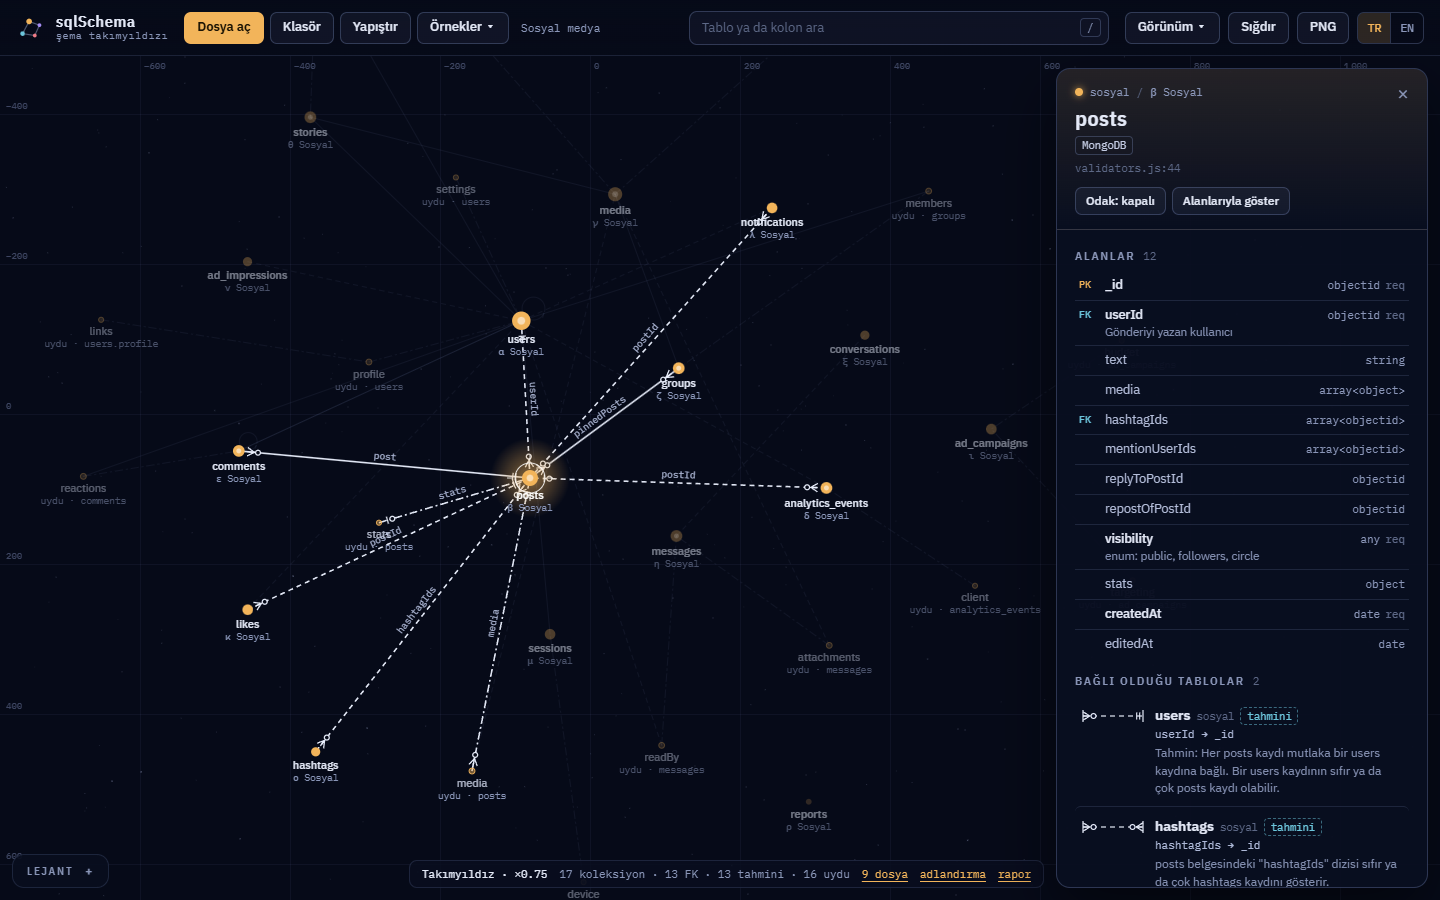
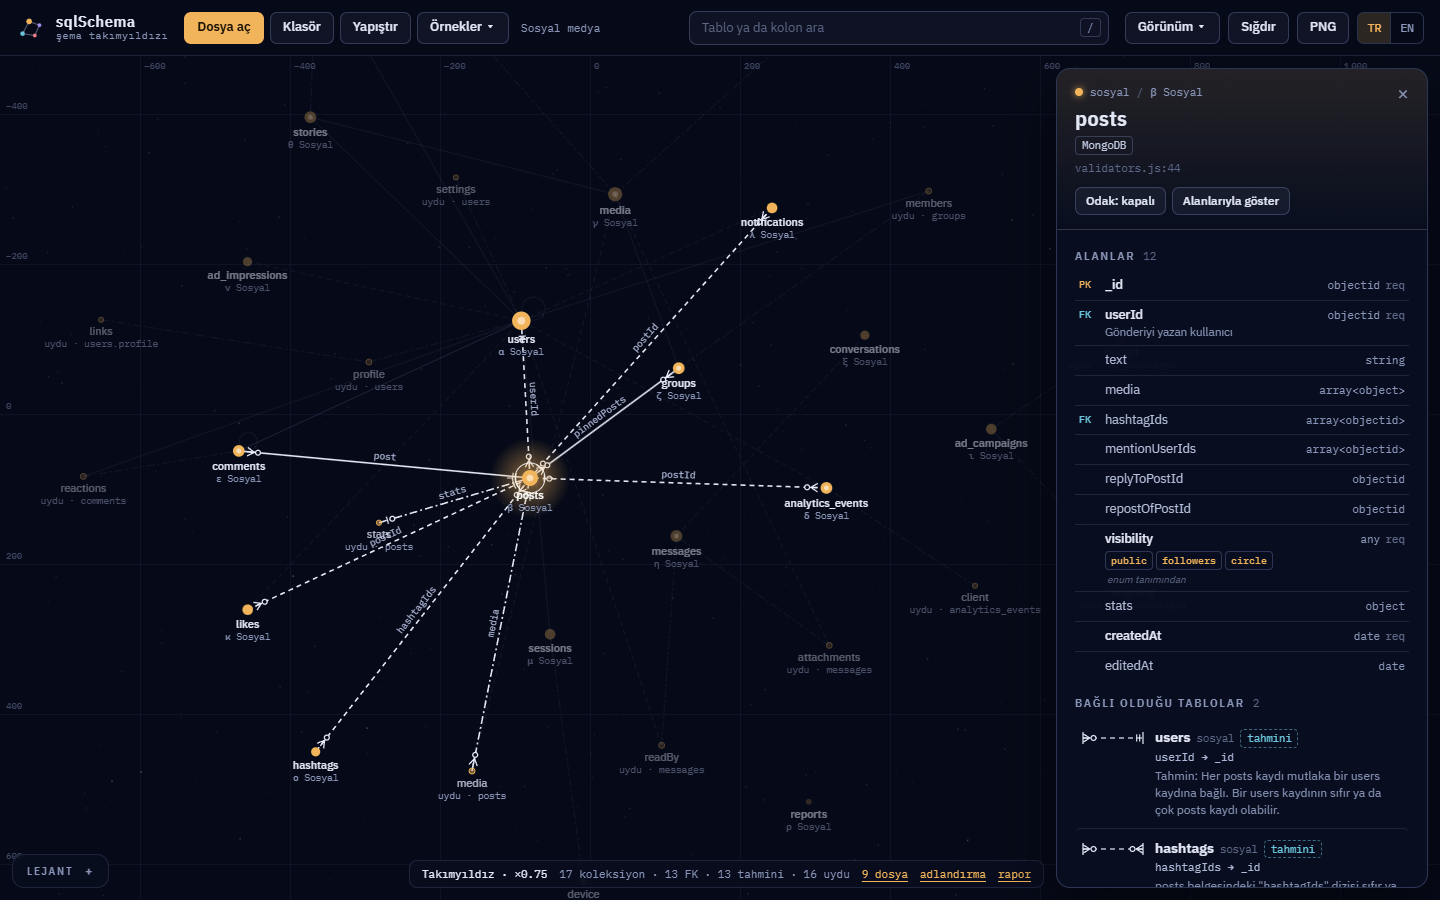
CHECK, ENUM ve MongoDB enum değerleri
İzin verilen değerler açıklamanın yanında başka yerlerde de tanımlı
olabilir; hepsi aynı değer kutucuklarıyla gösterilir.

- sql-parser: yeni 'check' işlemi. CHECK (X IN ('A','P')) ve SQL Server
  çıktısındaki CHECK (([X]='A' OR [X]='P')); satır içi, tablo düzeyi ve
  ALTER TABLE ADD. Aralık, karşılaştırma ve bileşik koşullar okunmaz
- model: setValues; CHECK > ENUM tipi, anlamlar açıklamadan etiket olur
  (c.commentUsed / c.valuesNote)
- mongo: enum açıklamaya "enum: …" diye yazılmaz, kolonun allowed alanı
- örnekler: sigorta (Oracle CHECK, biri açıklamadaki anlamlarla), banka
  (SSMS OR biçimi); eticaret ENUM ve sosyal enum zaten vardı
- testler, README (TR/EN), CHANGELOG, görüntüler

Changed region(s): [[0.75, 0.5911, 0.9688, 0.9956], [0.9375, 0.6222, 0.9688, 0.7467]]

diff --git a/tests/run.js b/tests/run.js
@@ -99,6 +99,8 @@ const EXPECT = {
     check('banka: Person 1:1 Customer', rel(m, 'Person', 'CustomerId', 'Customer').childEnd === 'zeroOne');
     check('banka: AML alarmı → işlem (tahmini)', rel(m, 'Alert', 'TransactionId', 'Transaction', 'implicit'));
     check('banka: ara tablo RolePermission', find(m, 'RolePermission').junction);
+    const g = find(m, 'Person').colIdx.get('GENDER');
+    check('banka: SSMS CHECK ([x]=\'F\' OR ...) değer listesi', g.valuesSrc === 'check' && g.values.map(v => v.code).join() === 'F,M,U', g.values);
     check('banka: görünüm ve yordam atlandı', m.stats.skipped.some(([k]) => k === 'CREATE VIEW') && m.stats.skipped.some(([k]) => k === 'CREATE PROCEDURE'));
     const p = NS.namingProfile(m);
     check('banka: adlandırma tek stil (PascalCase, <Tablo>Id)', p.dims.find(d => d.id === 'tableCase').share === 1 && p.dims.find(d => d.id === 'pkStyle').dominant === 'tableId', p.dims.map(d => d.dominant));
@@ -118,6 +120,9 @@ const EXPECT = {
     check('sigorta: açıklamadaki değer listeleri', vals('MUSTERI', 'MUSTERI_TIP') === 'G=Gerçek kişi, T=Tüzel kişi' && vals('MUSTERI', 'CINSIYET') === 'E=Erkek, K=Kadın, B=Belirtilmemiş' && vals('MUSTERI', 'KARA_LISTE') === 'E=Evet, H=Hayır', [vals('MUSTERI', 'MUSTERI_TIP'), vals('MUSTERI', 'CINSIYET'), vals('MUSTERI', 'KARA_LISTE')]);
     const kanal = find(m, 'HASAR_IHBAR').colIdx.get('IHBAR_KANAL');
     check('sigorta: listenin önündeki metin ayrı tutulur', kanal.values.length === 4 && kanal.valuesNote === 'İhbarın geldiği kanal', [kanal.values.length, kanal.valuesNote]);
+    const mt = find(m, 'MUSTERI').colIdx.get('MUSTERI_TIP');
+    check('sigorta: CHECK değerleri açıklamadaki anlamlarla birleşir', mt.valuesSrc === 'check' && vals('MUSTERI', 'MUSTERI_TIP') === 'G=Gerçek kişi, T=Tüzel kişi', [mt.valuesSrc, vals('MUSTERI', 'MUSTERI_TIP')]);
+    check('sigorta: anlamı yazılmamış CHECK değerleri', vals('POLICE_ARAC', 'KULLANIM_TARZ') === 'HUSUSI=null, TICARI=null, TAKSI=null, RESMI=null', vals('POLICE_ARAC', 'KULLANIM_TARZ'));
     check('sigorta: @ref açıklaması değer listesi sayılmaz', !find(m, 'POLICE').colIdx.get('POLICE_DURUM').values || find(m, 'POLICE').colIdx.get('POLICE_DURUM').valuesSrc !== 'comment');
     check('sigorta: KOD_TABLO sözlük, MUSTERI değil', find(m, 'KOD_TABLO').dictionary && !find(m, 'MUSTERI').dictionary && m.stats.dictionaries === 1);
     check('sigorta: sözlüğe giden ilişkiler işaretli', m.rels.filter(r => r.dict).length === 3 && !rel(m, 'HASAR_IHBAR', 'IHBAR_EDEN_MUSTERI_NO', 'MUSTERI', 'ref').dict);
@@ -133,6 +138,8 @@ const EXPECT = {
     check('eticaret: arama kaydı → kullanıcı (tahmini)', rel(m, 'search_logs', 'user_id', 'users', 'implicit'));
     check('eticaret: kategori kendine bağlı', rel(m, 'categories', 'parent_id', 'categories').self);
     check('eticaret: satıcı 1:1 kullanıcı', rel(m, 'sellers', 'user_id', 'users').childEnd === 'zeroOne');
+    const st = find(m, 'orders').colIdx.get('STATUS');
+    check('eticaret: MySQL ENUM tipi değer listesi', st.valuesSrc === 'enum' && st.values.length === 4, st.values);
     const p = NS.namingProfile(m);
     check('eticaret: adlandırma snake_case, PK id, çoğul', same(dim(p, 'pkStyle'), { id: 35, composite: 5 }) && p.dims.find(d => d.id === 'tableNumber').dominant === 'plural' && p.dims.find(d => d.id === 'columnCase').share === 1);
   },
@@ -181,6 +188,8 @@ const EXPECT = {
     check('sosyal: ref \'Media\' → media (Mongoose çoğul kuralı)', rel(m, 'stories', 'media', 'media', 'fk') && !find(m, 'medias'));
     check('sosyal: dış koleksiyon yok', m.stats.external === 0, m.tables.filter(t => t.external).map(t => t.name));
     check('sosyal: MongoDB kaynak dosyalarına göre bölünmez', !m.tables.some(t => t.group.file));
+    const vis = find(m, 'posts').colIdx.get('VISIBILITY');
+    check('sosyal: enum değerleri kolonun değer listesi, açıklamaya yazılmaz', vis.valuesSrc === 'enum' && vis.values.map(v => v.code).join() === 'public,followers,circle' && !/enum:/.test(vis.comment || ''), [vis.values, vis.comment]);
   },
   saha({ model: m }) {
     check('saha: SQLite tanındı', m.stats.dialects.includes('sqlite'), m.stats.dialects);
@@ -292,6 +301,13 @@ const one = sql => build([{ path: 'x.sql', text: sql }]).model;
   const wrongNo = no.filter(s => v(s));
   check('değer listesi sanılmayan açıklamalar', !wrongNo.length, wrongNo.map(s => [s, v(s)]));
   check('listenin dışındaki metin', NS.valuesFromComment('G = Gerçek, T = Tüzel. Varsayılan G').rest === 'Varsayılan G');
+
+  // CHECK kısıtındaki değer listeleri
+  const ck = one("CREATE TABLE a (id int PRIMARY KEY, durum CHAR(1) CONSTRAINT ck CHECK (durum IN ('A','P')) NOT NULL, tip varchar(5), adet int CHECK (adet > 0), puan int, CONSTRAINT ck2 CHECK (tip IN ('B','K')), CONSTRAINT ck3 CHECK (puan BETWEEN 1 AND 5));\nALTER TABLE a ADD CONSTRAINT ck4 CHECK (id IN (1, 2) AND tip = 'B');");
+  const cv = c => { const x = find(ck, 'a').colIdx.get(c); return x.values ? x.values.map(v => v.code).join() : null; };
+  check('CHECK IN: satır içi ve tablo düzeyi', cv('DURUM') === 'A,P' && cv('TIP') === 'B,K', [cv('DURUM'), cv('TIP')]);
+  check('CHECK IN satır içinde NOT NULL\'u bozmaz', !find(ck, 'a').colIdx.get('DURUM').nullable);
+  check('karşılaştırma, aralık ve bileşik koşul liste sayılmaz', !cv('ADET') && !cv('PUAN') && !cv('ID'), [cv('ADET'), cv('PUAN'), cv('ID')]);
 }
 
 // Adlandırma sınıflandırıcıları

diff --git a/js/sql-parser.js b/js/sql-parser.js
@@ -13,6 +13,7 @@
  *   renamecol { t, col, to }          rename    { t, to }
  *   drop      { t }                   dropcon   { t, name }      droppk { t }
  *   state     { t, name, disabled }   tcomment  { t, text }      ccomment { t, col, text }
+ *   check     { t, col, values }      yalnızca izin verilen değer listesi: CHECK (X IN ('A','P')), CHECK (X='A' OR X='P')
  */
 (function (NS) {
 'use strict';
@@ -157,10 +158,52 @@ function parseReferences(c, P) {
   return { parts: parts && P.qn(parts), cols, onDelete, disabled };
 }
 
+/*
+ * CHECK gövdesinden izin verilen değer listesi. İki biçim okunur:
+ *   (DURUM IN ('A', 'P'))          Oracle, PostgreSQL, MySQL
+ *   (([Durum]='A' OR [Durum]='P'))  SQL Server "Generate Scripts" çıktısı
+ * Aralık, karşılaştırma ve birden fazla kolonlu koşullar değer listesi değildir; okunmaz.
+ */
+function readCheckValues(c) {
+  if (!c.isP('(')) return null;
+  const s = c.i;
+  c.skipGroup();
+  const inner = c.toks.slice(s + 1, c.i - 1);
+  const isId = t => t && (t.t === 'w' || t.t === 'q');
+  const lit = t => t && (t.t === 's' || t.t === 'n');
+  const toks = inner.filter(t => !(t.t === 'p' && (t.v === '(' || t.v === ')')));
+  // IN biçimi: parantezleri atınca  ad IN lit , lit , lit
+  if (isId(toks[0]) && toks[1] && toks[1].u === 'IN') {
+    const values = [];
+    for (let j = 2; j < toks.length; j++) {
+      if (j % 2 === 0 ? !lit(toks[j]) : !(toks[j].t === 'p' && toks[j].v === ',')) return null;
+      if (j % 2 === 0) values.push(String(toks[j].v));
+    }
+    return values.length >= 2 ? { col: toks[0].v, values } : null;
+  }
+  // OR biçimi:  ad = lit OR ad = lit ...
+  const values = [];
+  let col = null;
+  for (let j = 0; j < toks.length; j += 4) {
+    const [a, eq, v, or] = toks.slice(j, j + 4);
+    if (!isId(a) || !eq || eq.v !== '=' || !lit(v)) return null;
+    if (col !== null && col.toUpperCase() !== a.v.toUpperCase()) return null;
+    col = a.v;
+    values.push(String(v.v));
+    if (or && or.u !== 'OR') return null;
+  }
+  return values.length >= 2 ? { col, values } : null;
+}
+
 // Tablo seviyesi kısıt; imleç CONSTRAINT / PRIMARY / FOREIGN / UNIQUE ... üzerinde
 function parseConstraint(c, tparts, P) {
   let name = null;
   if (c.acceptW('CONSTRAINT') && c.isIdent() && !c.isW('PRIMARY', 'FOREIGN', 'UNIQUE', 'CHECK')) name = c.next().v;
+  if (c.acceptW('CHECK')) {
+    const r = readCheckValues(c);
+    if (r) P.op({ op: 'check', t: tparts, col: r.col, values: r.values });
+    return;
+  }
   if (c.acceptSeq('PRIMARY', 'KEY')) {
     c.acceptW('CLUSTERED', 'NONCLUSTERED');
     const info = {};
@@ -261,6 +304,12 @@ function parseColumnDef(c, tparts, P) {
     if (c.acceptW('REFERENCES')) {
       const r = parseReferences(c, P);
       if (r.parts) P.op({ op: 'fk', t: tparts, cols: [name], ref: r.parts, refCols: r.cols, name: pending, disabled: r.disabled, onDelete: r.onDelete });
+      pending = null;
+      continue;
+    }
+    if (c.acceptW('CHECK')) {
+      const r = readCheckValues(c);
+      if (r && r.col.toUpperCase() === name.toUpperCase()) P.op({ op: 'check', t: tparts, col: name, values: r.values });
       pending = null;
       continue;
     }

diff --git a/js/model.js b/js/model.js
@@ -86,6 +86,41 @@ function typeFamily(type) {
   return 'other';
 }
 
+// MySQL ENUM('a','b') / SET('a','b') tipindeki değerler
+function enumFromType(type) {
+  const m = /^(?:enum|set)\s*\((.*)\)$/is.exec(String(type || '').trim());
+  if (!m) return null;
+  const vals = [...m[1].matchAll(/'((?:[^']|'')*)'/g)].map(x => x[1].replace(/''/g, "'"));
+  return vals.length ? vals : null;
+}
+
+/*
+ * Kolonun kod değerleri: c.values = [{ code, label }], c.valuesSrc nereden okunduğunu söyler.
+ *   'check' CHECK kısıtı · 'enum' ENUM tipi ya da MongoDB enum · 'comment' açıklamadaki liste
+ * İzin verilen değerler kısıttan ya da tipten gelir; anlamları açıklamada yazılıysa etiket olarak eklenir.
+ * c.commentUsed: açıklamadaki liste kullanıldı, panel açıklamanın yalnızca kalanını (c.valuesNote) yazar.
+ */
+function setValues(c) {
+  const fromComment = valuesFromComment(c.comment);
+  const typeEnum = enumFromType(c.type);
+  const allowed = c.allowed || typeEnum;
+  c.values = null;
+  c.valuesSrc = null;
+  c.commentUsed = false;
+  c.valuesNote = null;
+  if (allowed) {
+    const label = code => { const v = fromComment && fromComment.find(x => x.code.toUpperCase() === String(code).toUpperCase()); return v ? v.label : null; };
+    c.values = allowed.map(code => ({ code: String(code), label: label(code) }));
+    c.valuesSrc = c.allowed ? (c.allowedSrc || 'check') : 'enum';
+    if (fromComment && c.values.some(v => v.label)) { c.commentUsed = true; c.valuesNote = fromComment.rest; }
+  } else if (fromComment) {
+    c.values = fromComment.slice();
+    c.valuesSrc = 'comment';
+    c.commentUsed = true;
+    c.valuesNote = fromComment.rest;
+  }
+}
+
 function buildModel(inputs, opts = {}) {
   const U = s => String(s == null ? '' : s).toUpperCase();
   const tables = new Map();   // anahtar → tablo
@@ -172,6 +207,7 @@ function buildModel(inputs, opts = {}) {
       if (!ex.type || /^(mixed|any|null)$/i.test(ex.type)) ex.type = col.type;
       if (col.nullable === false) ex.nullable = false;
       if (!ex.comment && col.comment) ex.comment = col.comment;
+      if (!ex.allowed && col.allowed) { ex.allowed = col.allowed; ex.allowedSrc = col.allowedSrc; }
       if (col.embedded) ex.embedded = true;
     }
     if (def.embedded) t.embedded = true;
@@ -278,6 +314,11 @@ function buildModel(inputs, opts = {}) {
         if (col && op.text) col.comment = op.text;
         break;
       }
+      case 'check': {
+        const col = getCol(t, op.col);
+        if (col) { col.allowed = op.values.slice(); col.allowedSrc = 'check'; }
+        break;
+      }
       case 'drop':
         t.dropped = true;
         tables.delete(t.key);
@@ -329,11 +370,7 @@ function buildModel(inputs, opts = {}) {
   for (const t of alive()) {
     for (const c of t.columns) {
       if (t.pk.some(p => U(p) === U(c.name))) { c.pk = true; c.nullable = false; }
-      // kod değerleri: c.values = [{ code, label }], c.valuesSrc kaynağı söyler
-      const v = valuesFromComment(c.comment);
-      c.values = v ? v.slice() : null;
-      c.valuesSrc = v ? 'comment' : null;
-      c.valuesNote = v ? v.rest : null;
+      setValues(c);
     }
   }
 

diff --git a/js/mongo.js b/js/mongo.js
@@ -215,7 +215,8 @@ function emitEntity(E, parts, fields, owner) {
       columns.push({ name: f.name, type: f.many ? 'array<object>' : 'object', nullable: f.nullable, comment: f.comment || null, embedded: true });
       continue;
     }
-    columns.push({ name: f.name, type: f.type, nullable: f.nullable, comment: f.comment || null, pk: !!f.pk });
+    // enum, model.js'te kolonun kod değerleri olur (CHECK ve ENUM tipiyle aynı gösterim)
+    columns.push({ name: f.name, type: f.type, nullable: f.nullable, comment: f.comment || null, pk: !!f.pk, allowed: f.enum || null, allowedSrc: f.enum ? 'enum' : null });
   }
   E.op({ op: 'create', t: parts, def: { columns, comment: null, embedded: !!owner }, merge: true });
   E.stats.tables++;
@@ -247,7 +248,7 @@ function jsonSchemaFields(sch, top = true) {
     const f = { name, nullable: !req.has(name) || types.includes('null'), pk: name === '_id' };
     const notes = [];
     if (p.description) notes.push(p.description);
-    if (Array.isArray(p.enum)) notes.push('enum: ' + p.enum.join(', '));
+    if (Array.isArray(p.enum)) f.enum = p.enum.map(String);
     if (nonNull.includes('object') && isPlain(p.properties)) {
       f.sub = jsonSchemaFields(p, false);
     } else if (nonNull.includes('array')) {
@@ -357,10 +358,8 @@ function parseMongoose(src, E) {
       f.nullable = !(v.required === true || (Array.isArray(v.required) && v.required[0] === true));
       if (v.unique === true) f.unique = true;
       if (typeof v.ref === 'string') f.ref = [collOf.get(v.ref) || pluralize(v.ref)];
-      const notes = [];
-      if (Array.isArray(v.enum)) notes.push('enum: ' + v.enum.join(', '));
-      if (typeof v.description === 'string') notes.push(v.description);
-      if (notes.length) f.comment = notes.join(' · ');
+      if (Array.isArray(v.enum)) f.enum = v.enum.map(String);
+      if (typeof v.description === 'string') f.comment = v.description;
       return f;
     }
     return { name, type: mongooseTypeName(v), nullable: true };

diff --git a/js/ui.js b/js/ui.js
@@ -536,7 +536,7 @@ function relItem(r, dir) {
 }
 
 // Kolonun kod değerleri: kutucuklar ve nereden okunduğu
-const VALUE_SRC = { comment: 'vsrcComment' };
+const VALUE_SRC = { comment: 'vsrcComment', check: 'vsrcCheck', enum: 'vsrcEnum' };
 function valuesHtml(c) {
   const MAX = 40;
   const chips = c.values.slice(0, MAX).map(v => `<span class="cv"><b>${esc(v.code)}</b>${v.label ? ' ' + esc(v.label) : ''}</span>`).join('');
@@ -594,7 +594,7 @@ function renderPanel() {
     const k = keyTag(tb, c);
     const hl = S.selCol && c.name.toUpperCase() === S.selCol ? ' class="hl"' : '';
     // açıklama bir değer listesiyse liste kutucuk olur, metnin geri kalanı açıklama olarak kalır
-    const note = c.valuesSrc === 'comment' ? c.valuesNote : c.comment;
+    const note = c.commentUsed ? c.valuesNote : c.comment;
     return `<tr${hl}><td class="ck ${k ? 'k-' + k : ''}">${k}</td><td class="cn${c.nullable ? ' nul' : ''}">${esc(c.name)}${note ? `<div class="cc">${esc(note)}</div>` : ''}${c.values ? valuesHtml(c) : ''}</td><td class="ct">${esc(String(c.type).toLowerCase())}${c.nullable ? '' : `<b title="${esc(mongo ? t('reqTitle') : 'NOT NULL')}">${mongo ? 'req' : 'nn'}</b>`}</td></tr>`;
   }).join('');
   const where = [tb.db !== 'main' ? tb.db : '', schemaLabel(tb.schemaRef)].filter(Boolean).join(' / ');

diff --git a/js/i18n.js b/js/i18n.js
@@ -128,6 +128,8 @@ const DICT = {
     rDicts: 'Sözlük tablosu',
     rValueLists: 'Değer listeli kolon',
     vsrcComment: 'açıklamadan',
+    vsrcCheck: 'CHECK kısıtından',
+    vsrcEnum: 'enum tanımından',
     rImplicit: 'Tahmini ilişki', rJunctions: 'Ara tablo (M:N)', rIndexes: 'İndeks / açıklama', rTime: 'Süre',
     rWarnings: 'Uyarılar', rOrphans: 'Tablosu bulunamayan ifadeler', rSkipped: 'Çizime girmeyen ifadeler', rErrors: 'Hatalar',
     warnDup: v => `${v.name} birden fazla kez tanımlanmış (${v.a} ve ${v.b}); sonraki tanım geçerli.`,
@@ -327,6 +329,8 @@ const DICT = {
     rDicts: 'Lookup tables',
     rValueLists: 'Columns with a value list',
     vsrcComment: 'from the comment',
+    vsrcCheck: 'from a CHECK constraint',
+    vsrcEnum: 'from the enum definition',
     rImplicit: 'Inferred relationships', rJunctions: 'Junction tables (M:N)', rIndexes: 'Indexes / comments', rTime: 'Time',
     rWarnings: 'Warnings', rOrphans: 'Statements whose table was not found', rSkipped: 'Statements not drawn', rErrors: 'Errors',
     warnDup: v => `${v.name} is defined more than once (${v.a} and ${v.b}); the later definition wins.`,

diff --git a/tools/specs/sigorta.js b/tools/specs/sigorta.js
@@ -112,7 +112,10 @@ const COMMENTS = {
 };
 
 const INDEXES = {
-  POLICE: ['CREATE INDEX SGR.POLICE_IX1 ON SGR.POLICE (MUSTERI_NO);', 'CREATE INDEX SGR.POLICE_IX2 ON SGR.POLICE (ACENTE_KOD, TANZIM_TAR);', 'CREATE UNIQUE INDEX SGR.POLICE_ARAC_UX1 ON SGR.POLICE_ARAC (PLAKA, POLICE_NO);'],
+  // kodların bir kısmı CHECK kısıtıyla da sınırlanmış; anlamları açıklamada (MUSTERI_TIP) ya da hiç yazılmamış (KULLANIM_TARZ)
+  ORTAK: ["ALTER TABLE SGR.MUSTERI ADD CONSTRAINT MUSTERI_TIP_CK CHECK (MUSTERI_TIP IN ('G', 'T'));"],
+  POLICE: [
+    "ALTER TABLE SGR.POLICE_ARAC ADD CONSTRAINT POLICE_ARAC_KT_CK CHECK (KULLANIM_TARZ IN ('HUSUSI', 'TICARI', 'TAKSI', 'RESMI'));",'CREATE INDEX SGR.POLICE_IX1 ON SGR.POLICE (MUSTERI_NO);', 'CREATE INDEX SGR.POLICE_IX2 ON SGR.POLICE (ACENTE_KOD, TANZIM_TAR);', 'CREATE UNIQUE INDEX SGR.POLICE_ARAC_UX1 ON SGR.POLICE_ARAC (PLAKA, POLICE_NO);'],
   HASAR: ['CREATE INDEX SGR.HASAR_DOSYA_IX1 ON SGR.HASAR_DOSYA (POLICE_NO);', 'CREATE INDEX SGR.HASAR_ODEME_IX1 ON SGR.HASAR_ODEME (DOSYA_NO);'],
   TAHSILAT: ['CREATE INDEX SGR.PRIM_TAHAKKUK_IX1 ON SGR.PRIM_TAHAKKUK (POLICE_NO, ZEYL_NO);'],
 };

diff --git a/tools/specs/banka.js b/tools/specs/banka.js
@@ -92,7 +92,11 @@ sec.RolePermission | | RoleId:int pk >Role; PermissionId:int pk >Permission
 sec.AuditLog +part | Denetim izi (FK yok) | AuditLogId pk ai; EmployeeId; Action:str(50) nn; Entity:str(100) nn; EntityKey:str(100); OccurredAt:ts nn
 `;
 
-const EXTRA = `/****** Object:  View [acc].[vw_CustomerBalance]    Script Date: 24.10.2026 09:41:17 ******/
+const EXTRA = `ALTER TABLE [cust].[Person]  WITH CHECK ADD  CONSTRAINT [CK_Person_Gender] CHECK  (([Gender]='F' OR [Gender]='M' OR [Gender]='U'))
+GO
+ALTER TABLE [cust].[Person] CHECK CONSTRAINT [CK_Person_Gender]
+GO
+/****** Object:  View [acc].[vw_CustomerBalance]    Script Date: 24.10.2026 09:41:17 ******/
 SET ANSI_NULLS ON
 GO
 SET QUOTED_IDENTIFIER ON

diff --git a/samples/catalog.js b/samples/catalog.js
@@ -88,6 +88,7 @@
       "ACENTE/tablolar.sql",
       "HASAR/indeksler.sql",
       "HASAR/tablolar.sql",
+      "ORTAK/indeksler.sql",
       "ORTAK/kod_tablo_verisi.sql",
       "ORTAK/tablolar.sql",
       "POLICE/indeksler.sql",

diff --git a/README.md b/README.md
@@ -197,6 +197,16 @@ COMMENT ON COLUMN HASAR_IHBAR.IHBAR_KANAL IS 'İhbarın geldiği kanal: ACN = Ac
 - **Kartta:** kolon adının yanında küçük bir `≡` işareti.
 - **Aramada:** değerlerin anlamı da aranır. "iptal" yazınca `4 = İptal` değerini tutan kolon bulunur; büyük/küçük harf ve Türkçe karakter farkı yok sayılır.
 
+İzin verilen değerler başka yerlerde de tanımlı olabilir; hepsi aynı kutucuklarla gösterilir ve kaynağı yanına yazılır:
+
+| Kaynak | Örnek |
+|---|---|
+| `CHECK` kısıtı | `CHECK (MUSTERI_TIP IN ('G', 'T'))` · SQL Server: `CHECK (([Gender]='F' OR [Gender]='M'))` |
+| `ENUM` tipi | MySQL `status enum('active','passive')` |
+| MongoDB `enum` | `$jsonSchema` ve Mongoose alanlarındaki `enum: ['tr', 'en']` |
+
+Değerler kısıttan ya da tipten geliyor, anlamları açıklamada yazılıyorsa ikisi birleşir: `CHECK (MUSTERI_TIP IN ('G','T'))` ile `'G = Gerçek kişi, T = Tüzel kişi'` açıklaması `G Gerçek kişi · T Tüzel kişi` olarak görünür. Aralık (`BETWEEN`), karşılaştırma (`> 0`) ve birden fazla kolonlu koşullar değer listesi sayılmaz.
+
 <a id="tr-coklu-dosya"></a>
 
 ### Birden fazla dosya ve migration
@@ -629,6 +639,16 @@ COMMENT ON COLUMN HASAR_IHBAR.IHBAR_KANAL IS 'Channel of the claim: ACN = Agency
 - **In the panel:** the values appear as chips under the column; the part of the comment outside the list ("Channel of the claim") is shown separately.
 - **On the card:** a small `≡` next to the column name.
 - **In search:** the meanings of values are searched too. Typing "iptal" finds the column holding `4 = İptal`; case and Turkish characters are ignored.
+
+Allowed values may be defined elsewhere too; all of them are shown with the same chips, with the source next to them:
+
+| Source | Example |
+|---|---|
+| `CHECK` constraint | `CHECK (MUSTERI_TIP IN ('G', 'T'))` · SQL Server: `CHECK (([Gender]='F' OR [Gender]='M'))` |
+| `ENUM` type | MySQL `status enum('active','passive')` |
+| MongoDB `enum` | `enum: ['tr', 'en']` in `$jsonSchema` and Mongoose fields |
+
+When the values come from a constraint or type and their meanings are written in the comment, the two are combined: `CHECK (MUSTERI_TIP IN ('G','T'))` with the comment `'G = Gerçek kişi, T = Tüzel kişi'` shows as `G Gerçek kişi · T Tüzel kişi`. Ranges (`BETWEEN`), comparisons (`> 0`) and multi-column conditions are not value lists.
 
 <a id="en-multi-file"></a>
 

diff --git a/CHANGELOG.md b/CHANGELOG.md
@@ -9,6 +9,8 @@ This file follows [Keep a Changelog](https://keepachangelog.com/en/1.1.0/) and [
 
 - **Açıklamadaki kod değerleri:** `1 = Aktif, 2 = Pasif`, `A: Aktif; P: Pasif`, `E-Evet / H-Hayır` gibi değer listeleri kolon açıklamasından okunur; panelde kutucuk, kartta `≡` işareti olarak görünür ve aramada bulunur.
   Code values in comments: value lists such as `1 = Active, 2 = Passive`, `A: Active; P: Passive` or `Y-Yes / N-No` are read from column comments; they appear as chips in the panel and a `≡` mark on the card, and are searchable.
+- **CHECK, ENUM ve MongoDB enum değerleri:** `CHECK (X IN (…))`, SQL Server `CHECK ([X]='A' OR [X]='P')`, MySQL `ENUM` tipi ve MongoDB `enum` alanları aynı değer kutucuklarıyla gösterilir; anlamları açıklamada yazılıysa birleşir. MongoDB enum'u artık açıklamaya "enum: …" diye eklenmez.
+  CHECK, ENUM and MongoDB enum values: `CHECK (X IN (…))`, SQL Server `CHECK ([X]='A' OR [X]='P')`, the MySQL `ENUM` type and MongoDB `enum` fields are shown with the same value chips, combined with meanings written in the comment. MongoDB enums are no longer appended to the comment as "enum: …".
 
 ## [0.4.0] - 2026-10-29
 
